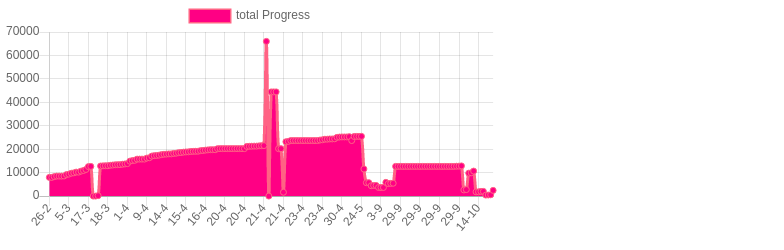
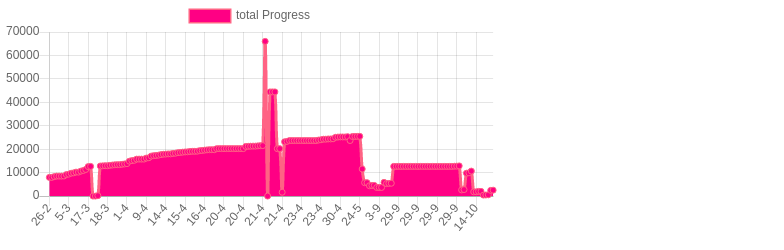
python login flask

Changed region(s): [[0.0918, 0.14, 0.6429, 0.924]]

diff --git a/total.html b/total.html
@@ -9,7 +9,7 @@
         <script src="https://cdn.jsdelivr.net/npm/chart.js@2.8.0"></script>
         <script>
           var ctx = document.getElementById("total").getContext("2d");
-          const goLabelsDates = ["2021-02-27T01:37:43.112Z","2021-02-27T01:38:01.628Z","2021-03-01T13:41:18.753Z","2021-03-01T14:53:41.991Z","2021-03-01T15:08:00.851Z","2021-03-01T15:09:10.635Z","2021-03-01T15:22:55.385Z","2021-03-03T15:31:41.151Z","2021-03-05T14:02:13.446Z","2021-03-10T14:50:13.297Z","2021-03-11T01:54:03.424Z","2021-03-11T15:32:47.647Z","2021-03-11T16:01:51.191Z","2021-03-12T00:36:04.646Z","2021-03-13T00:14:58.179Z","2021-03-16T05:30:04.043Z","2021-03-17T21:17:52.181Z","2021-03-18T03:42:56.998Z","2021-03-18T03:44:29.834Z","2021-03-18T03:45:35.160Z","2021-03-18T03:45:54.668Z","2021-03-18T03:48:46.007Z","2021-03-18T05:10:54.427Z","2021-03-18T05:44:13.724Z","2021-03-18T05:56:11.032Z","2021-03-18T22:11:28.339Z","2021-03-19T11:28:55.383Z","2021-03-22T13:51:43.977Z","2021-03-23T01:52:09.452Z","2021-03-23T15:45:53.765Z","2021-03-24T01:46:02.104Z","2021-03-30T10:56:50.711Z","2021-04-01T15:03:17.764Z","2021-04-01T23:15:02.096Z","2021-04-07T19:21:55.040Z","2021-04-08T15:21:14.479Z","2021-04-09T23:17:58.037Z","2021-04-09T23:32:26.341Z","2021-04-09T23:34:42.049Z","2021-04-09T23:36:18.092Z","2021-04-10T01:45:40.218Z","2021-04-12T15:41:26.676Z","2021-04-14T02:00:41.039Z","2021-04-14T20:02:44.141Z","2021-04-14T21:14:15.821Z","2021-04-14T22:06:37.573Z","2021-04-14T22:42:14.693Z","2021-04-14T23:10:13.243Z","2021-04-14T23:22:54.824Z","2021-04-14T23:49:37.009Z","2021-04-15T02:28:51.974Z","2021-04-15T14:33:50.618Z","2021-04-15T15:09:11.104Z","2021-04-15T20:35:30.580Z","2021-04-16T00:04:33.158Z","2021-04-16T01:36:06.294Z","2021-04-16T01:53:35.992Z","2021-04-16T02:00:15.474Z","2021-04-16T16:08:40.977Z","2021-04-16T16:27:06.953Z","2021-04-16T16:59:30.526Z","2021-04-16T17:00:53.737Z","2021-04-16T23:14:36.283Z","2021-04-17T00:39:16.890Z","2021-04-17T01:11:09.986Z","2021-04-17T01:32:30.011Z","2021-04-17T01:44:22.446Z","2021-04-17T01:44:33.941Z","2021-04-17T02:35:55.774Z","2021-04-19T15:41:31.091Z","2021-04-20T15:32:32.239Z","2021-04-20T15:33:16.014Z","2021-04-20T15:36:11.438Z","2021-04-20T15:38:44.606Z","2021-04-20T15:41:50.350Z","2021-04-20T15:44:34.448Z","2021-04-20T15:46:49.295Z","2021-04-20T15:47:24.048Z","2021-04-20T15:56:22.046Z","2021-04-20T16:00:02.540Z","2021-04-20T16:01:15.511Z","2021-04-20T23:19:23.938Z","2021-04-21T00:40:54.443Z","2021-04-21T00:47:22.662Z","2021-04-21T02:01:09.006Z","2021-04-21T02:19:22.734Z","2021-04-21T15:53:36.038Z","2021-04-21T16:21:45.704Z","2021-04-21T16:26:32.790Z","2021-04-21T16:40:24.916Z","2021-04-21T16:43:40.235Z","2021-04-21T16:43:59.719Z","2021-04-21T16:44:40.304Z","2021-04-21T16:46:13.191Z","2021-04-21T16:48:41.898Z","2021-04-21T16:49:08.753Z","2021-04-21T16:50:32.397Z","2021-04-21T16:51:58.778Z","2021-04-23T00:49:32.826Z","2021-04-23T15:03:06.320Z","2021-04-23T15:04:13.039Z","2021-04-23T15:05:25.923Z","2021-04-23T15:11:04.285Z","2021-04-23T15:11:38.826Z","2021-04-23T15:12:05.618Z","2021-04-23T15:12:32.508Z","2021-04-23T15:13:17.058Z","2021-04-23T17:08:27.046Z","2021-04-23T18:02:30.357Z","2021-04-23T22:58:36.946Z","2021-04-23T23:00:26.027Z","2021-04-23T23:52:58.438Z","2021-04-24T01:12:51.525Z","2021-04-24T02:01:46.612Z","2021-04-26T12:46:47.336Z","2021-04-26T13:13:50.946Z","2021-04-26T13:16:04.473Z","2021-04-27T00:11:42.582Z","2021-04-30T03:26:37.101Z","2021-04-30T04:33:42.472Z","2021-04-30T05:15:42.646Z","2021-04-30T14:31:10.927Z","2021-05-04T01:51:49.907Z","2021-05-21T00:30:21.777Z","2021-05-24T15:07:09.579Z","2021-05-24T15:08:05.658Z","2021-05-24T15:22:20.903Z","2021-05-24T15:33:34.626Z","2021-05-24T15:46:16.101Z","2021-05-24T15:48:12.171Z","2021-05-24T15:53:54.498Z","2021-05-24T15:56:18.488Z","2021-05-28T22:50:32.914Z","2021-06-02T17:58:30.866Z","2021-07-01T05:04:25.826Z","2021-07-01T05:05:33.079Z","2021-09-03T16:56:54.023Z","2021-09-23T00:10:19.737Z","2021-09-23T00:54:30.987Z","2021-09-25T00:13:33.106Z","2021-09-25T00:56:09.874Z","2021-09-29T20:37:10.460Z","2021-09-29T20:39:45.107Z","2021-09-29T20:45:08.406Z","2021-09-29T20:45:42.995Z","2021-09-29T20:51:54.166Z","2021-09-29T21:04:45.487Z","2021-09-29T21:22:49.580Z","2021-09-29T21:23:34.860Z","2021-09-29T21:24:52.804Z","2021-09-29T21:25:12.938Z","2021-09-29T21:31:41.466Z","2021-09-29T21:32:02.856Z","2021-09-29T21:32:15.096Z","2021-09-29T21:37:01.273Z","2021-09-29T21:39:46.109Z","2021-09-29T21:40:23.862Z","2021-09-29T21:41:38.242Z","2021-09-29T21:45:36.053Z","2021-09-29T21:48:31.229Z","2021-09-29T21:49:46.414Z","2021-09-29T21:50:16.628Z","2021-09-29T21:52:23.035Z","2021-09-29T21:58:46.153Z","2021-09-29T21:59:06.075Z","2021-09-29T22:09:34.545Z","2021-09-29T22:24:59.487Z","2021-09-29T22:39:38.616Z","2021-09-29T23:07:40.178Z","2021-10-01T13:21:48.217Z","2021-10-01T14:11:47.682Z","2021-10-05T00:24:42.303Z","2021-10-05T14:36:34.233Z","2021-10-05T15:30:47.628Z","2021-10-13T14:16:32.194Z","2021-10-14T20:31:14.540Z","2021-10-15T02:04:50.667Z","2021-10-22T22:01:46.214Z","2021-10-26T00:04:54.365Z","2021-10-26T00:05:44.432Z","2021-10-26T13:52:24.065Z","2021-10-26T14:08:20.572Z","2021-11-11T01:24:39.296Z",];
+          const goLabelsDates = ["2021-02-27T01:37:43.112Z","2021-02-27T01:38:01.628Z","2021-03-01T13:41:18.753Z","2021-03-01T14:53:41.991Z","2021-03-01T15:08:00.851Z","2021-03-01T15:09:10.635Z","2021-03-01T15:22:55.385Z","2021-03-03T15:31:41.151Z","2021-03-05T14:02:13.446Z","2021-03-10T14:50:13.297Z","2021-03-11T01:54:03.424Z","2021-03-11T15:32:47.647Z","2021-03-11T16:01:51.191Z","2021-03-12T00:36:04.646Z","2021-03-13T00:14:58.179Z","2021-03-16T05:30:04.043Z","2021-03-17T21:17:52.181Z","2021-03-18T03:42:56.998Z","2021-03-18T03:44:29.834Z","2021-03-18T03:45:35.160Z","2021-03-18T03:45:54.668Z","2021-03-18T03:48:46.007Z","2021-03-18T05:10:54.427Z","2021-03-18T05:44:13.724Z","2021-03-18T05:56:11.032Z","2021-03-18T22:11:28.339Z","2021-03-19T11:28:55.383Z","2021-03-22T13:51:43.977Z","2021-03-23T01:52:09.452Z","2021-03-23T15:45:53.765Z","2021-03-24T01:46:02.104Z","2021-03-30T10:56:50.711Z","2021-04-01T15:03:17.764Z","2021-04-01T23:15:02.096Z","2021-04-07T19:21:55.040Z","2021-04-08T15:21:14.479Z","2021-04-09T23:17:58.037Z","2021-04-09T23:32:26.341Z","2021-04-09T23:34:42.049Z","2021-04-09T23:36:18.092Z","2021-04-10T01:45:40.218Z","2021-04-12T15:41:26.676Z","2021-04-14T02:00:41.039Z","2021-04-14T20:02:44.141Z","2021-04-14T21:14:15.821Z","2021-04-14T22:06:37.573Z","2021-04-14T22:42:14.693Z","2021-04-14T23:10:13.243Z","2021-04-14T23:22:54.824Z","2021-04-14T23:49:37.009Z","2021-04-15T02:28:51.974Z","2021-04-15T14:33:50.618Z","2021-04-15T15:09:11.104Z","2021-04-15T20:35:30.580Z","2021-04-16T00:04:33.158Z","2021-04-16T01:36:06.294Z","2021-04-16T01:53:35.992Z","2021-04-16T02:00:15.474Z","2021-04-16T16:08:40.977Z","2021-04-16T16:27:06.953Z","2021-04-16T16:59:30.526Z","2021-04-16T17:00:53.737Z","2021-04-16T23:14:36.283Z","2021-04-17T00:39:16.890Z","2021-04-17T01:11:09.986Z","2021-04-17T01:32:30.011Z","2021-04-17T01:44:22.446Z","2021-04-17T01:44:33.941Z","2021-04-17T02:35:55.774Z","2021-04-19T15:41:31.091Z","2021-04-20T15:32:32.239Z","2021-04-20T15:33:16.014Z","2021-04-20T15:36:11.438Z","2021-04-20T15:38:44.606Z","2021-04-20T15:41:50.350Z","2021-04-20T15:44:34.448Z","2021-04-20T15:46:49.295Z","2021-04-20T15:47:24.048Z","2021-04-20T15:56:22.046Z","2021-04-20T16:00:02.540Z","2021-04-20T16:01:15.511Z","2021-04-20T23:19:23.938Z","2021-04-21T00:40:54.443Z","2021-04-21T00:47:22.662Z","2021-04-21T02:01:09.006Z","2021-04-21T02:19:22.734Z","2021-04-21T15:53:36.038Z","2021-04-21T16:21:45.704Z","2021-04-21T16:26:32.790Z","2021-04-21T16:40:24.916Z","2021-04-21T16:43:40.235Z","2021-04-21T16:43:59.719Z","2021-04-21T16:44:40.304Z","2021-04-21T16:46:13.191Z","2021-04-21T16:48:41.898Z","2021-04-21T16:49:08.753Z","2021-04-21T16:50:32.397Z","2021-04-21T16:51:58.778Z","2021-04-23T00:49:32.826Z","2021-04-23T15:03:06.320Z","2021-04-23T15:04:13.039Z","2021-04-23T15:05:25.923Z","2021-04-23T15:11:04.285Z","2021-04-23T15:11:38.826Z","2021-04-23T15:12:05.618Z","2021-04-23T15:12:32.508Z","2021-04-23T15:13:17.058Z","2021-04-23T17:08:27.046Z","2021-04-23T18:02:30.357Z","2021-04-23T22:58:36.946Z","2021-04-23T23:00:26.027Z","2021-04-23T23:52:58.438Z","2021-04-24T01:12:51.525Z","2021-04-24T02:01:46.612Z","2021-04-26T12:46:47.336Z","2021-04-26T13:13:50.946Z","2021-04-26T13:16:04.473Z","2021-04-27T00:11:42.582Z","2021-04-30T03:26:37.101Z","2021-04-30T04:33:42.472Z","2021-04-30T05:15:42.646Z","2021-04-30T14:31:10.927Z","2021-05-04T01:51:49.907Z","2021-05-21T00:30:21.777Z","2021-05-24T15:07:09.579Z","2021-05-24T15:08:05.658Z","2021-05-24T15:22:20.903Z","2021-05-24T15:33:34.626Z","2021-05-24T15:46:16.101Z","2021-05-24T15:48:12.171Z","2021-05-24T15:53:54.498Z","2021-05-24T15:56:18.488Z","2021-05-28T22:50:32.914Z","2021-06-02T17:58:30.866Z","2021-07-01T05:04:25.826Z","2021-07-01T05:05:33.079Z","2021-09-03T16:56:54.023Z","2021-09-23T00:10:19.737Z","2021-09-23T00:54:30.987Z","2021-09-25T00:13:33.106Z","2021-09-25T00:56:09.874Z","2021-09-29T20:37:10.460Z","2021-09-29T20:39:45.107Z","2021-09-29T20:45:08.406Z","2021-09-29T20:45:42.995Z","2021-09-29T20:51:54.166Z","2021-09-29T21:04:45.487Z","2021-09-29T21:22:49.580Z","2021-09-29T21:23:34.860Z","2021-09-29T21:24:52.804Z","2021-09-29T21:25:12.938Z","2021-09-29T21:31:41.466Z","2021-09-29T21:32:02.856Z","2021-09-29T21:32:15.096Z","2021-09-29T21:37:01.273Z","2021-09-29T21:39:46.109Z","2021-09-29T21:40:23.862Z","2021-09-29T21:41:38.242Z","2021-09-29T21:45:36.053Z","2021-09-29T21:48:31.229Z","2021-09-29T21:49:46.414Z","2021-09-29T21:50:16.628Z","2021-09-29T21:52:23.035Z","2021-09-29T21:58:46.153Z","2021-09-29T21:59:06.075Z","2021-09-29T22:09:34.545Z","2021-09-29T22:24:59.487Z","2021-09-29T22:39:38.616Z","2021-09-29T23:07:40.178Z","2021-10-01T13:21:48.217Z","2021-10-01T14:11:47.682Z","2021-10-05T00:24:42.303Z","2021-10-05T14:36:34.233Z","2021-10-05T15:30:47.628Z","2021-10-13T14:16:32.194Z","2021-10-14T20:31:14.540Z","2021-10-15T02:04:50.667Z","2021-10-22T22:01:46.214Z","2021-10-26T00:04:54.365Z","2021-10-26T00:05:44.432Z","2021-10-26T13:52:24.065Z","2021-10-26T14:08:20.572Z","2021-11-11T01:24:39.296Z","2021-11-11T02:12:58.681Z",];
           var chart = new Chart(ctx, {
             type: 'line',
             data: {
@@ -18,7 +18,7 @@
                 label: 'total Progress',
                 backgroundColor: 'rgb(255, 0, 132)',
                 borderColor: 'rgb(255, 99, 132)',
-                data: [7975,7975,8307,8526,8526,8527,8573,9171,9358,9751,9908,10232,10231,10643,10911,11353,12576,12666,0,0,169,12835,12906,12953,12953,13141,13254,13354,13406,13417,13568,13708,13845,14886,15140,15267,15766,15777,15777,15777,16211,16345,17062,17247,17324,17464,17697,17849,17916,18002,18002,18202,18292,18515,18590,18744,18837,18876,19030,19086,19114,19143,19378,19465,19607,19714,19782,19782,19791,20220,20257,20257,20257,20257,20257,20257,20257,20257,20257,20257,20257,21179,21238,21279,21319,21319,21430,21506,21543,65995,0,44452,44452,44452,20233,20233,1629,23172,23326,23693,23693,23693,23693,23693,23693,23693,23693,23693,23693,23693,23693,23905,24023,24262,24275,24376,24376,24452,25078,25182,25238,25232,25233,25334,23696,25427,25453,25466,25491,11565,5707,5707,4421,4535,4535,3678,3678,3678,5861,5318,5422,5473,12667,12667,12667,12667,12667,12667,12667,12667,12667,12667,12667,12667,12667,12667,12667,12667,12667,12667,12658,12658,12657,12657,12657,12657,12683,12736,12779,12888,2619,2775,9772,9922,10674,1795,1824,2002,2000,422,468,543,2427,]
+                data: [7975,7975,8307,8526,8526,8527,8573,9171,9358,9751,9908,10232,10231,10643,10911,11353,12576,12666,0,0,169,12835,12906,12953,12953,13141,13254,13354,13406,13417,13568,13708,13845,14886,15140,15267,15766,15777,15777,15777,16211,16345,17062,17247,17324,17464,17697,17849,17916,18002,18002,18202,18292,18515,18590,18744,18837,18876,19030,19086,19114,19143,19378,19465,19607,19714,19782,19782,19791,20220,20257,20257,20257,20257,20257,20257,20257,20257,20257,20257,20257,21179,21238,21279,21319,21319,21430,21506,21543,65995,0,44452,44452,44452,20233,20233,1629,23172,23326,23693,23693,23693,23693,23693,23693,23693,23693,23693,23693,23693,23693,23905,24023,24262,24275,24376,24376,24452,25078,25182,25238,25232,25233,25334,23696,25427,25453,25466,25491,11565,5707,5707,4421,4535,4535,3678,3678,3678,5861,5318,5422,5473,12667,12667,12667,12667,12667,12667,12667,12667,12667,12667,12667,12667,12667,12667,12667,12667,12667,12667,12658,12658,12657,12657,12657,12657,12683,12736,12779,12888,2619,2775,9772,9922,10674,1795,1824,2002,2000,422,468,543,2427,2526,]
               }]
             },
           });

diff --git a/python.html b/python.html
@@ -9,7 +9,7 @@
         <script src="https://cdn.jsdelivr.net/npm/chart.js@2.8.0"></script>
         <script>
           var ctx = document.getElementById("python").getContext("2d");
-          const goLabelsDates = ["2021-02-27T01:37:43.111Z","2021-02-27T01:38:01.627Z","2021-03-03T15:31:41.151Z","2021-03-18T05:44:13.724Z","2021-03-18T05:56:11.032Z","2021-03-18T22:11:28.339Z","2021-03-19T11:28:55.382Z","2021-03-22T13:51:43.976Z","2021-03-23T01:52:09.451Z","2021-03-23T15:45:53.764Z","2021-03-24T01:46:02.103Z","2021-03-30T10:56:50.710Z","2021-04-01T15:03:17.763Z","2021-04-01T23:15:02.095Z","2021-04-07T19:21:55.039Z","2021-04-08T15:21:14.478Z","2021-04-09T23:17:58.036Z","2021-04-09T23:32:26.340Z","2021-04-09T23:34:42.048Z","2021-04-09T23:36:18.091Z","2021-04-10T01:45:40.217Z","2021-04-12T15:41:26.675Z","2021-04-14T02:00:41.039Z","2021-04-14T20:02:44.140Z","2021-04-14T21:14:15.820Z","2021-04-14T22:06:37.573Z","2021-04-14T22:42:14.693Z","2021-04-14T23:10:13.242Z","2021-04-14T23:22:54.823Z","2021-04-14T23:49:37.009Z","2021-04-15T02:28:51.973Z","2021-04-15T14:33:50.618Z","2021-04-15T15:09:11.102Z","2021-04-15T20:35:30.579Z","2021-04-16T00:04:33.157Z","2021-04-16T01:36:06.293Z","2021-04-16T01:53:35.991Z","2021-04-16T02:00:15.473Z","2021-04-16T16:08:40.976Z","2021-04-16T16:27:06.952Z","2021-04-16T16:59:30.524Z","2021-04-16T17:00:53.733Z","2021-04-16T23:14:36.282Z","2021-04-17T00:39:16.888Z","2021-04-17T01:11:09.985Z","2021-04-17T01:32:30.008Z","2021-04-17T01:44:22.444Z","2021-04-17T01:44:33.940Z","2021-04-17T02:35:55.773Z","2021-04-19T15:41:31.090Z","2021-04-20T15:32:32.238Z","2021-04-20T15:33:16.013Z","2021-04-20T15:36:11.438Z","2021-04-20T15:38:44.605Z","2021-04-20T15:41:50.349Z","2021-04-20T15:44:34.447Z","2021-04-20T15:46:49.294Z","2021-04-20T15:47:24.047Z","2021-04-20T15:56:22.045Z","2021-04-20T16:00:02.539Z","2021-04-20T16:01:15.511Z","2021-04-20T23:19:23.937Z","2021-04-21T00:40:54.442Z","2021-04-21T00:47:22.661Z","2021-04-21T02:01:09.005Z","2021-04-21T02:19:22.733Z","2021-04-21T15:53:36.037Z","2021-04-21T16:21:45.703Z","2021-04-21T16:26:32.789Z","2021-04-21T16:40:24.916Z","2021-04-21T16:51:58.777Z","2021-04-23T00:49:32.825Z","2021-04-23T15:03:06.327Z","2021-04-23T15:04:13.044Z","2021-04-23T15:05:25.923Z","2021-04-23T15:13:17.062Z","2021-04-23T17:08:27.045Z","2021-04-23T18:02:30.355Z","2021-04-23T22:58:36.945Z","2021-04-23T23:00:26.027Z","2021-04-23T23:52:58.438Z","2021-04-24T01:12:51.524Z","2021-04-24T02:01:46.611Z","2021-04-26T12:46:47.335Z","2021-04-26T13:13:50.945Z","2021-04-26T13:16:04.472Z","2021-04-27T00:11:42.580Z","2021-04-30T03:26:37.099Z","2021-04-30T04:33:42.472Z","2021-04-30T05:15:42.645Z","2021-04-30T14:31:10.926Z","2021-05-04T01:51:49.906Z","2021-05-21T00:30:21.772Z","2021-05-24T15:07:09.573Z","2021-05-24T15:08:05.657Z","2021-05-24T15:22:20.902Z","2021-05-24T15:33:34.625Z","2021-05-24T15:46:16.101Z","2021-09-23T00:54:30.986Z","2021-09-25T00:13:33.105Z","2021-09-25T00:56:09.873Z","2021-09-29T20:37:10.457Z","2021-09-29T20:39:45.106Z","2021-09-29T20:45:08.405Z","2021-09-29T20:45:42.993Z","2021-09-29T20:51:54.165Z","2021-09-29T21:04:45.486Z","2021-09-29T21:22:49.579Z","2021-09-29T21:23:34.859Z","2021-09-29T21:24:52.803Z","2021-09-29T21:25:12.937Z","2021-09-29T21:31:41.464Z","2021-09-29T21:32:02.854Z","2021-09-29T21:32:15.094Z","2021-09-29T21:36:24.778Z","2021-09-29T21:37:01.272Z","2021-09-29T21:39:46.106Z","2021-09-29T21:40:23.860Z","2021-09-29T21:41:38.230Z","2021-09-29T21:45:36.050Z","2021-09-29T21:48:31.221Z","2021-09-29T21:49:46.411Z","2021-09-29T21:50:16.624Z","2021-09-29T21:52:23.032Z","2021-09-29T21:58:46.150Z","2021-09-29T21:59:06.072Z","2021-09-29T22:09:34.542Z","2021-09-29T22:24:59.484Z","2021-09-29T22:39:38.613Z","2021-09-29T23:07:40.175Z","2021-10-01T13:21:48.213Z","2021-10-01T14:11:47.679Z","2021-11-11T01:24:39.291Z",];
+          const goLabelsDates = ["2021-02-27T01:37:43.111Z","2021-02-27T01:38:01.627Z","2021-03-03T15:31:41.151Z","2021-03-18T05:44:13.724Z","2021-03-18T05:56:11.032Z","2021-03-18T22:11:28.339Z","2021-03-19T11:28:55.382Z","2021-03-22T13:51:43.976Z","2021-03-23T01:52:09.451Z","2021-03-23T15:45:53.764Z","2021-03-24T01:46:02.103Z","2021-03-30T10:56:50.710Z","2021-04-01T15:03:17.763Z","2021-04-01T23:15:02.095Z","2021-04-07T19:21:55.039Z","2021-04-08T15:21:14.478Z","2021-04-09T23:17:58.036Z","2021-04-09T23:32:26.340Z","2021-04-09T23:34:42.048Z","2021-04-09T23:36:18.091Z","2021-04-10T01:45:40.217Z","2021-04-12T15:41:26.675Z","2021-04-14T02:00:41.039Z","2021-04-14T20:02:44.140Z","2021-04-14T21:14:15.820Z","2021-04-14T22:06:37.573Z","2021-04-14T22:42:14.693Z","2021-04-14T23:10:13.242Z","2021-04-14T23:22:54.823Z","2021-04-14T23:49:37.009Z","2021-04-15T02:28:51.973Z","2021-04-15T14:33:50.618Z","2021-04-15T15:09:11.102Z","2021-04-15T20:35:30.579Z","2021-04-16T00:04:33.157Z","2021-04-16T01:36:06.293Z","2021-04-16T01:53:35.991Z","2021-04-16T02:00:15.473Z","2021-04-16T16:08:40.976Z","2021-04-16T16:27:06.952Z","2021-04-16T16:59:30.524Z","2021-04-16T17:00:53.733Z","2021-04-16T23:14:36.282Z","2021-04-17T00:39:16.888Z","2021-04-17T01:11:09.985Z","2021-04-17T01:32:30.008Z","2021-04-17T01:44:22.444Z","2021-04-17T01:44:33.940Z","2021-04-17T02:35:55.773Z","2021-04-19T15:41:31.090Z","2021-04-20T15:32:32.238Z","2021-04-20T15:33:16.013Z","2021-04-20T15:36:11.438Z","2021-04-20T15:38:44.605Z","2021-04-20T15:41:50.349Z","2021-04-20T15:44:34.447Z","2021-04-20T15:46:49.294Z","2021-04-20T15:47:24.047Z","2021-04-20T15:56:22.045Z","2021-04-20T16:00:02.539Z","2021-04-20T16:01:15.511Z","2021-04-20T23:19:23.937Z","2021-04-21T00:40:54.442Z","2021-04-21T00:47:22.661Z","2021-04-21T02:01:09.005Z","2021-04-21T02:19:22.733Z","2021-04-21T15:53:36.037Z","2021-04-21T16:21:45.703Z","2021-04-21T16:26:32.789Z","2021-04-21T16:40:24.916Z","2021-04-21T16:51:58.777Z","2021-04-23T00:49:32.825Z","2021-04-23T15:03:06.327Z","2021-04-23T15:04:13.044Z","2021-04-23T15:05:25.923Z","2021-04-23T15:13:17.062Z","2021-04-23T17:08:27.045Z","2021-04-23T18:02:30.355Z","2021-04-23T22:58:36.945Z","2021-04-23T23:00:26.027Z","2021-04-23T23:52:58.438Z","2021-04-24T01:12:51.524Z","2021-04-24T02:01:46.611Z","2021-04-26T12:46:47.335Z","2021-04-26T13:13:50.945Z","2021-04-26T13:16:04.472Z","2021-04-27T00:11:42.580Z","2021-04-30T03:26:37.099Z","2021-04-30T04:33:42.472Z","2021-04-30T05:15:42.645Z","2021-04-30T14:31:10.926Z","2021-05-04T01:51:49.906Z","2021-05-21T00:30:21.772Z","2021-05-24T15:07:09.573Z","2021-05-24T15:08:05.657Z","2021-05-24T15:22:20.902Z","2021-05-24T15:33:34.625Z","2021-05-24T15:46:16.101Z","2021-09-23T00:54:30.986Z","2021-09-25T00:13:33.105Z","2021-09-25T00:56:09.873Z","2021-09-29T20:37:10.457Z","2021-09-29T20:39:45.106Z","2021-09-29T20:45:08.405Z","2021-09-29T20:45:42.993Z","2021-09-29T20:51:54.165Z","2021-09-29T21:04:45.486Z","2021-09-29T21:22:49.579Z","2021-09-29T21:23:34.859Z","2021-09-29T21:24:52.803Z","2021-09-29T21:25:12.937Z","2021-09-29T21:31:41.464Z","2021-09-29T21:32:02.854Z","2021-09-29T21:32:15.094Z","2021-09-29T21:36:24.778Z","2021-09-29T21:37:01.272Z","2021-09-29T21:39:46.106Z","2021-09-29T21:40:23.860Z","2021-09-29T21:41:38.230Z","2021-09-29T21:45:36.050Z","2021-09-29T21:48:31.221Z","2021-09-29T21:49:46.411Z","2021-09-29T21:50:16.624Z","2021-09-29T21:52:23.032Z","2021-09-29T21:58:46.150Z","2021-09-29T21:59:06.072Z","2021-09-29T22:09:34.542Z","2021-09-29T22:24:59.484Z","2021-09-29T22:39:38.613Z","2021-09-29T23:07:40.175Z","2021-10-01T13:21:48.213Z","2021-10-01T14:11:47.679Z","2021-11-11T01:24:39.291Z","2021-11-11T02:12:58.677Z",];
           var chart = new Chart(ctx, {
             type: 'line',
             data: {
@@ -18,7 +18,7 @@
                 label: 'python Progress',
                 backgroundColor: 'rgb(255, 0, 132)',
                 borderColor: 'rgb(255, 99, 132)',
-                data: [1149,1149,1501,1581,1581,1581,1581,1581,1581,1581,1581,1581,1581,1581,1581,1581,1581,1581,1581,1581,1581,1581,1581,1581,1581,1581,1581,1581,1581,1581,1581,1581,1581,1581,1581,1581,1581,1581,1581,1581,1581,1581,1581,1581,1581,1581,1581,1581,1581,1581,1581,1581,1581,1581,1581,1581,1581,1581,1581,1581,1581,1740,1799,1840,1840,1840,1840,1840,1840,1840,1840,1850,1850,1850,1850,1850,1850,1850,1850,1850,1850,1850,1911,1911,1911,2025,2025,2025,2025,2025,2025,2025,2025,2025,2025,2025,2025,2026,2183,2199,2303,2354,2354,2354,2354,2354,2354,2354,2354,2354,2354,2354,2354,2354,2354,2354,2354,2354,2354,2354,2354,2354,2354,2353,2353,2353,2353,2353,2353,2353,2422,2422,2427,]
+                data: [1149,1149,1501,1581,1581,1581,1581,1581,1581,1581,1581,1581,1581,1581,1581,1581,1581,1581,1581,1581,1581,1581,1581,1581,1581,1581,1581,1581,1581,1581,1581,1581,1581,1581,1581,1581,1581,1581,1581,1581,1581,1581,1581,1581,1581,1581,1581,1581,1581,1581,1581,1581,1581,1581,1581,1581,1581,1581,1581,1581,1581,1740,1799,1840,1840,1840,1840,1840,1840,1840,1840,1850,1850,1850,1850,1850,1850,1850,1850,1850,1850,1850,1911,1911,1911,2025,2025,2025,2025,2025,2025,2025,2025,2025,2025,2025,2025,2026,2183,2199,2303,2354,2354,2354,2354,2354,2354,2354,2354,2354,2354,2354,2354,2354,2354,2354,2354,2354,2354,2354,2354,2354,2354,2353,2353,2353,2353,2353,2353,2353,2422,2422,2427,2526,]
               }]
             },
           });

diff --git a/Readme.md b/Readme.md
@@ -1,11 +1,11 @@
 # All count
 |Language|Goal|Lines%|%|%|%|Subjects|
 |----------|-------|-------|--------|--------|--------|--------|
-|python|10000|2427|24|![python](https://raw.githubusercontent.com/kapit4n/l-10000-dev/master/python.png)|collections, |algorithms, aws s3 boyo3, django pdf, django tips, unit tests, yield|
-|TOTAL|2427|24.270%|
+|python|10000|2526|25|![python](https://raw.githubusercontent.com/kapit4n/l-10000-dev/master/python.png)|collections, |algorithms, authentication jwt, aws s3 boto3, django pdf, django tips, g cloud storage, login flask, unit tests, yield|
+|TOTAL|2526|25.260%|
 10/02(0)
 
-10/03(2427)
+10/03(2526)
 
 
   # run it
@@ -28,4 +28,4 @@
   * Angular, React, Vue
   * Spring, Play
   * Scala, Java
-  , 2021-11-11T01:24:39.296Z
+  , 2021-11-11T02:12:58.681Z
